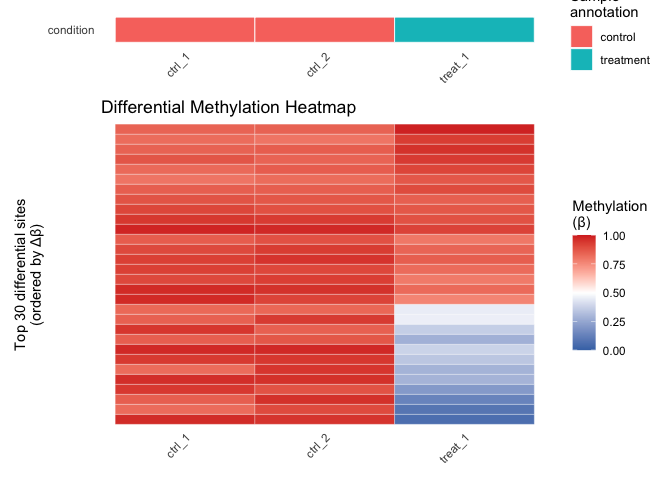
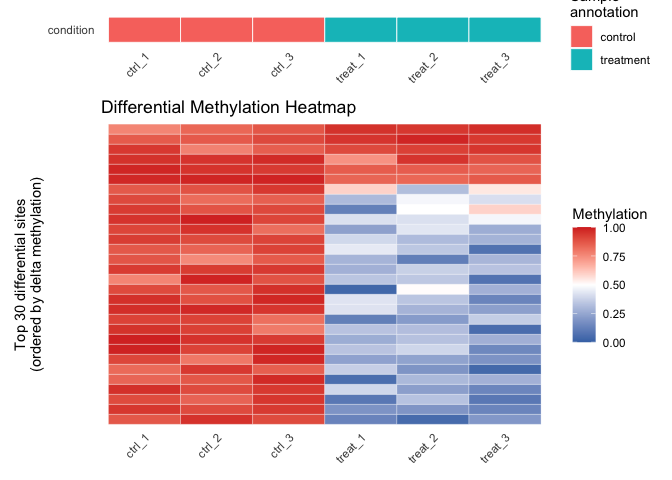
render readme

diff --git a/README.md b/README.md
@@ -5,6 +5,7 @@
 
 <!-- badges: start -->
 
+[![R-CMD-check](https://github.com/carl-stone/CoMMA/actions/workflows/R-CMD-check.yaml/badge.svg)](https://github.com/carl-stone/CoMMA/actions/workflows/R-CMD-check.yaml)
 <!-- badges: end -->
 
 **comma** (**co**mma: for **m**icrobial **m**ethylation **a**nalysis) is
@@ -43,15 +44,16 @@ testing, and publication-quality visualization.
 # Development version from GitHub:
 devtools::install_github("carl-stone/CoMMA")
 #> ── R CMD build ─────────────────────────────────────────────────────────────────
-#>      checking for file ‘/private/var/folders/3k/ldfp2j0n0f14b16ghvbmqcp00000gn/T/Rtmpqy1wHx/remotese157133bc77e/carl-stone-CoMMA-4b69118/DESCRIPTION’ ...  ✔  checking for file ‘/private/var/folders/3k/ldfp2j0n0f14b16ghvbmqcp00000gn/T/Rtmpqy1wHx/remotese157133bc77e/carl-stone-CoMMA-4b69118/DESCRIPTION’
-#>   ─  preparing ‘comma’:
-#>      checking DESCRIPTION meta-information ...  ✔  checking DESCRIPTION meta-information
-#>   ─  checking for LF line-endings in source and make files and shell scripts
-#>   ─  checking for empty or unneeded directories
-#>   ─  looking to see if a ‘data/datalist’ file should be added
-#>   ─  building ‘comma_0.6.0.tar.gz’
-#>      
-#> 
+#> * checking for file ‘/private/var/folders/3k/ldfp2j0n0f14b16ghvbmqcp00000gn/T/RtmpaBvRfl/remotesec493f429421/carl-stone-CoMMA-b5db7c0/DESCRIPTION’ ... OK
+#> * preparing ‘comma’:
+#> * checking DESCRIPTION meta-information ... OK
+#> * checking for LF line-endings in source and make files and shell scripts
+#> * checking for empty or unneeded directories
+#> Removed empty directory ‘comma/.claude/worktrees/cranky-dhawan’
+#> Removed empty directory ‘comma/.claude/worktrees’
+#> Removed empty directory ‘comma/.claude’
+#> * looking to see if a ‘data/datalist’ file should be added
+#> * building ‘comma_0.6.0.tar.gz’
 
 # Bioconductor (upcoming v1.0.0):
 # BiocManager::install("comma")
@@ -98,7 +100,7 @@ library(comma)
 data(comma_example_data)
 comma_example_data
 #> class: commaData
-#> sites: 300 | samples: 3 
+#> sites: 300 | samples: 6 
 #> mod types: 5mC, 6mA 
 #> conditions: control, treatment 
 #> genome: 1 chromosome (100,000 bp total) 
@@ -117,9 +119,12 @@ ms <- methylomeSummary(comma_example_data)
 ms[, c("sample_name", "condition", "mean_beta", "median_beta",
        "frac_methylated", "n_covered")]
 #>   sample_name condition mean_beta median_beta frac_methylated n_covered
-#> 1      ctrl_1   control 0.8642268   0.8895048       0.9966667       300
-#> 2      ctrl_2   control 0.8608948   0.8871344       0.9933333       300
-#> 3     treat_1 treatment 0.8065626   0.8802956       0.9000000       300
+#> 1      ctrl_1   control 0.8678843   0.8881436       0.9900000       300
+#> 2      ctrl_2   control 0.8728354   0.8951648       0.9966667       300
+#> 3      ctrl_3   control 0.8781476   0.8966108       1.0000000       300
+#> 4     treat_1 treatment 0.8135452   0.8829561       0.9166667       300
+#> 5     treat_2 treatment 0.8136529   0.8867238       0.9000000       300
+#> 6     treat_3 treatment 0.8004998   0.8694701       0.9066667       300
 ```
 
 `plot_coverage()` shows the sequencing depth distribution per sample:
@@ -160,7 +165,7 @@ annotated <- annotateSites(comma_example_data, type = "overlap")
 # Fraction of sites overlapping at least one annotated feature
 si <- siteInfo(annotated)
 mean(lengths(si$feature_names) > 0)
-#> [1] 0.03666667
+#> [1] 0.02333333
 ```
 
 Three annotation modes are available: `"overlap"`, `"proximity"`
@@ -208,22 +213,22 @@ sig <- filterResults(cd_dm, padj = 0.05, delta_beta = 0.2)
 cat("Total 6mA sites tested:", nrow(res), "\n")
 #> Total 6mA sites tested: 300
 cat("Significant sites (padj < 0.05, |Δβ| ≥ 0.2):", nrow(sig), "\n")
-#> Significant sites (padj < 0.05, |Δβ| ≥ 0.2): 0
+#> Significant sites (padj < 0.05, |Δβ| ≥ 0.2): 7
 
 # Top hits
 head(res[order(res$dm_padj),
          c("chrom", "position", "dm_delta_beta", "dm_padj")])
-#>                       chrom position dm_delta_beta      dm_padj
-#> chr_sim:8947:+:6mA  chr_sim     8947    0.07706022 0.000000e+00
-#> chr_sim:51470:-:6mA chr_sim    51470    0.14414713 5.063859e-11
-#> chr_sim:72380:-:6mA chr_sim    72380   -0.58612775 1.145158e-01
-#> chr_sim:157:-:6mA   chr_sim      157   -0.17796563 6.042545e-01
-#> chr_sim:1908:+:6mA  chr_sim     1908    0.04584536 6.042545e-01
-#> chr_sim:5262:+:6mA  chr_sim     5262    0.05723850 6.042545e-01
+#>                       chrom position dm_delta_beta     dm_padj
+#> chr_sim:8907:-:6mA  chr_sim     8907    -0.6097199 0.009737468
+#> chr_sim:52014:+:6mA chr_sim    52014    -0.7591100 0.009737468
+#> chr_sim:69527:+:6mA chr_sim    69527    -0.6702704 0.009737468
+#> chr_sim:72824:-:6mA chr_sim    72824    -0.1353157 0.009737468
+#> chr_sim:62293:-:6mA chr_sim    62293    -0.6522237 0.012869199
+#> chr_sim:9028:-:6mA  chr_sim     9028    -0.6850134 0.018361742
 ```
 
 `plot_volcano()` displays the differential methylation landscape —
-effect size (Δβ) versus significance (–log₁₀ padj):
+effect size (delta methylation) versus significance (–log10 padj):
 
 ``` r
 plot_volcano(res)
@@ -261,7 +266,7 @@ modTypes(comma_example_data)
 obj_6mA <- subset(comma_example_data, mod_type = "6mA")
 obj_6mA
 #> class: commaData
-#> sites: 200 | samples: 3 
+#> sites: 200 | samples: 6 
 #> mod types: 6mA 
 #> conditions: control, treatment 
 #> genome: 1 chromosome (100,000 bp total) 
